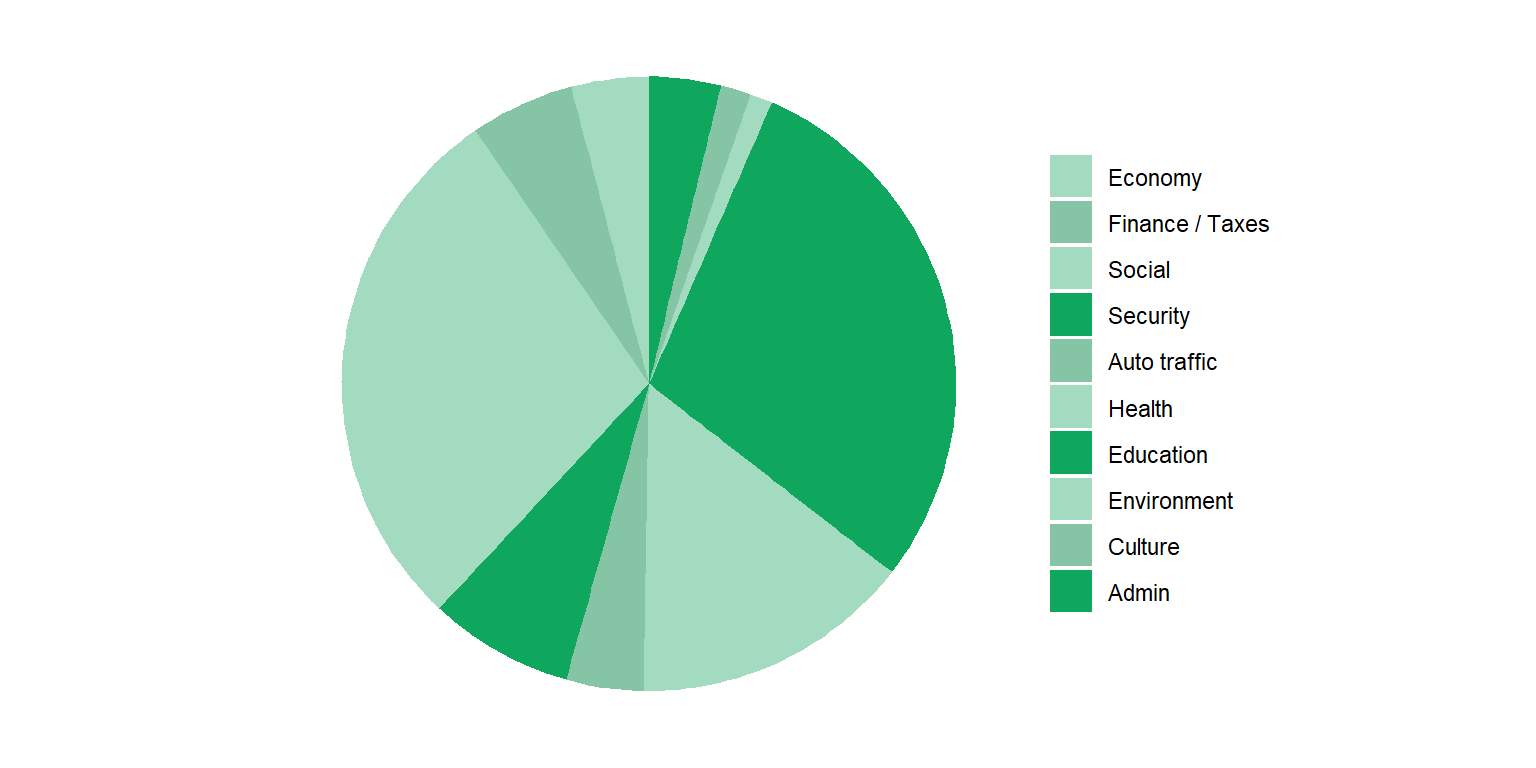
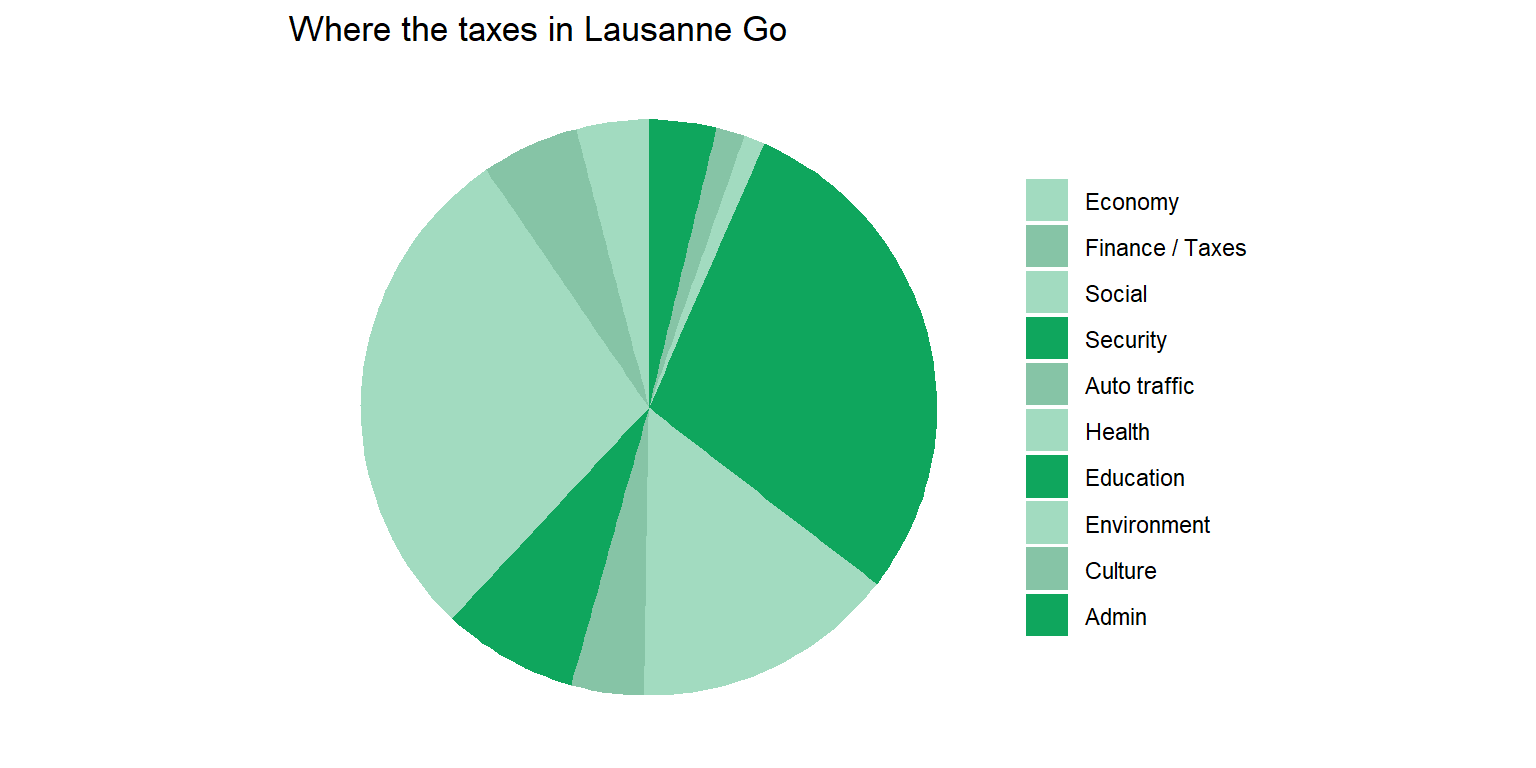
added bar and waffle chart. Fixes #30

diff --git a/Report_4/README.html b/Report_4/README.html
@@ -123,54 +123,57 @@ pre > code.sourceCode > span > a:first-child::before { text-decoration: underlin
 <span id="cb1-2"><a href="#cb1-2" aria-hidden="true" tabindex="-1"></a><span class="fu">library</span>(ggplot2)</span>
 <span id="cb1-3"><a href="#cb1-3" aria-hidden="true" tabindex="-1"></a><span class="fu">library</span>(dplyr)</span>
 <span id="cb1-4"><a href="#cb1-4" aria-hidden="true" tabindex="-1"></a><span class="fu">library</span>(forcats)</span>
-<span id="cb1-5"><a href="#cb1-5" aria-hidden="true" tabindex="-1"></a></span>
-<span id="cb1-6"><a href="#cb1-6" aria-hidden="true" tabindex="-1"></a>df_pie <span class="ot">&lt;-</span> <span class="fu">tibble</span>(</span>
-<span id="cb1-7"><a href="#cb1-7" aria-hidden="true" tabindex="-1"></a>  <span class="at">category =</span> <span class="fu">c</span>(</span>
-<span id="cb1-8"><a href="#cb1-8" aria-hidden="true" tabindex="-1"></a>    <span class="st">"Admin"</span>,</span>
-<span id="cb1-9"><a href="#cb1-9" aria-hidden="true" tabindex="-1"></a>    <span class="st">"Culture"</span>,</span>
-<span id="cb1-10"><a href="#cb1-10" aria-hidden="true" tabindex="-1"></a>    <span class="st">"Environment"</span>,</span>
-<span id="cb1-11"><a href="#cb1-11" aria-hidden="true" tabindex="-1"></a>    <span class="st">"Education"</span>,</span>
-<span id="cb1-12"><a href="#cb1-12" aria-hidden="true" tabindex="-1"></a>    <span class="st">"Health"</span>,</span>
-<span id="cb1-13"><a href="#cb1-13" aria-hidden="true" tabindex="-1"></a>    <span class="st">"Auto traffic"</span>,</span>
-<span id="cb1-14"><a href="#cb1-14" aria-hidden="true" tabindex="-1"></a>    <span class="st">"Security"</span>,</span>
-<span id="cb1-15"><a href="#cb1-15" aria-hidden="true" tabindex="-1"></a>    <span class="st">"Social"</span>,</span>
-<span id="cb1-16"><a href="#cb1-16" aria-hidden="true" tabindex="-1"></a>    <span class="st">"Finance / Taxes"</span>,</span>
-<span id="cb1-17"><a href="#cb1-17" aria-hidden="true" tabindex="-1"></a>    <span class="st">"Economy"</span>),</span>
-<span id="cb1-18"><a href="#cb1-18" aria-hidden="true" tabindex="-1"></a>  <span class="at">chf =</span> <span class="fu">c</span>(</span>
-<span id="cb1-19"><a href="#cb1-19" aria-hidden="true" tabindex="-1"></a>    <span class="fl">3.77</span>,</span>
-<span id="cb1-20"><a href="#cb1-20" aria-hidden="true" tabindex="-1"></a>    <span class="fl">1.60</span>,</span>
-<span id="cb1-21"><a href="#cb1-21" aria-hidden="true" tabindex="-1"></a>    <span class="fl">1.19</span>,</span>
-<span id="cb1-22"><a href="#cb1-22" aria-hidden="true" tabindex="-1"></a>    <span class="fl">28.92</span>,</span>
-<span id="cb1-23"><a href="#cb1-23" aria-hidden="true" tabindex="-1"></a>    <span class="fl">14.78</span>,</span>
-<span id="cb1-24"><a href="#cb1-24" aria-hidden="true" tabindex="-1"></a>    <span class="fl">4.09</span>,</span>
-<span id="cb1-25"><a href="#cb1-25" aria-hidden="true" tabindex="-1"></a>    <span class="fl">7.60</span>,</span>
-<span id="cb1-26"><a href="#cb1-26" aria-hidden="true" tabindex="-1"></a>    <span class="fl">28.50</span>,</span>
-<span id="cb1-27"><a href="#cb1-27" aria-hidden="true" tabindex="-1"></a>    <span class="fl">5.47</span>,</span>
-<span id="cb1-28"><a href="#cb1-28" aria-hidden="true" tabindex="-1"></a>    <span class="fl">4.08</span>),</span>
-<span id="cb1-29"><a href="#cb1-29" aria-hidden="true" tabindex="-1"></a><span class="at">fill =</span> <span class="fu">c</span>(</span>
-<span id="cb1-30"><a href="#cb1-30" aria-hidden="true" tabindex="-1"></a>    <span class="st">"#a2dbc0"</span>,</span>
-<span id="cb1-31"><a href="#cb1-31" aria-hidden="true" tabindex="-1"></a>    <span class="st">"#86c4a6"</span>,</span>
+<span id="cb1-5"><a href="#cb1-5" aria-hidden="true" tabindex="-1"></a><span class="fu">library</span>(waffle)</span>
+<span id="cb1-6"><a href="#cb1-6" aria-hidden="true" tabindex="-1"></a><span class="fu">library</span>(RColorBrewer)</span>
+<span id="cb1-7"><a href="#cb1-7" aria-hidden="true" tabindex="-1"></a></span>
+<span id="cb1-8"><a href="#cb1-8" aria-hidden="true" tabindex="-1"></a>df_pie <span class="ot">&lt;-</span> <span class="fu">tibble</span>(</span>
+<span id="cb1-9"><a href="#cb1-9" aria-hidden="true" tabindex="-1"></a>  <span class="at">category =</span> <span class="fu">c</span>(</span>
+<span id="cb1-10"><a href="#cb1-10" aria-hidden="true" tabindex="-1"></a>    <span class="st">"Admin"</span>,</span>
+<span id="cb1-11"><a href="#cb1-11" aria-hidden="true" tabindex="-1"></a>    <span class="st">"Culture"</span>,</span>
+<span id="cb1-12"><a href="#cb1-12" aria-hidden="true" tabindex="-1"></a>    <span class="st">"Environment"</span>,</span>
+<span id="cb1-13"><a href="#cb1-13" aria-hidden="true" tabindex="-1"></a>    <span class="st">"Education"</span>,</span>
+<span id="cb1-14"><a href="#cb1-14" aria-hidden="true" tabindex="-1"></a>    <span class="st">"Health"</span>,</span>
+<span id="cb1-15"><a href="#cb1-15" aria-hidden="true" tabindex="-1"></a>    <span class="st">"Auto traffic"</span>,</span>
+<span id="cb1-16"><a href="#cb1-16" aria-hidden="true" tabindex="-1"></a>    <span class="st">"Security"</span>,</span>
+<span id="cb1-17"><a href="#cb1-17" aria-hidden="true" tabindex="-1"></a>    <span class="st">"Social"</span>,</span>
+<span id="cb1-18"><a href="#cb1-18" aria-hidden="true" tabindex="-1"></a>    <span class="st">"Finance / Taxes"</span>,</span>
+<span id="cb1-19"><a href="#cb1-19" aria-hidden="true" tabindex="-1"></a>    <span class="st">"Economy"</span>),</span>
+<span id="cb1-20"><a href="#cb1-20" aria-hidden="true" tabindex="-1"></a>  <span class="at">chf =</span> <span class="fu">c</span>(</span>
+<span id="cb1-21"><a href="#cb1-21" aria-hidden="true" tabindex="-1"></a>    <span class="fl">3.77</span>,</span>
+<span id="cb1-22"><a href="#cb1-22" aria-hidden="true" tabindex="-1"></a>    <span class="fl">1.60</span>,</span>
+<span id="cb1-23"><a href="#cb1-23" aria-hidden="true" tabindex="-1"></a>    <span class="fl">1.19</span>,</span>
+<span id="cb1-24"><a href="#cb1-24" aria-hidden="true" tabindex="-1"></a>    <span class="fl">28.92</span>,</span>
+<span id="cb1-25"><a href="#cb1-25" aria-hidden="true" tabindex="-1"></a>    <span class="fl">14.78</span>,</span>
+<span id="cb1-26"><a href="#cb1-26" aria-hidden="true" tabindex="-1"></a>    <span class="fl">4.09</span>,</span>
+<span id="cb1-27"><a href="#cb1-27" aria-hidden="true" tabindex="-1"></a>    <span class="fl">7.60</span>,</span>
+<span id="cb1-28"><a href="#cb1-28" aria-hidden="true" tabindex="-1"></a>    <span class="fl">28.50</span>,</span>
+<span id="cb1-29"><a href="#cb1-29" aria-hidden="true" tabindex="-1"></a>    <span class="fl">5.47</span>,</span>
+<span id="cb1-30"><a href="#cb1-30" aria-hidden="true" tabindex="-1"></a>    <span class="fl">4.08</span>),</span>
+<span id="cb1-31"><a href="#cb1-31" aria-hidden="true" tabindex="-1"></a><span class="at">fill =</span> <span class="fu">c</span>(</span>
 <span id="cb1-32"><a href="#cb1-32" aria-hidden="true" tabindex="-1"></a>    <span class="st">"#a2dbc0"</span>,</span>
-<span id="cb1-33"><a href="#cb1-33" aria-hidden="true" tabindex="-1"></a>    <span class="st">"#0fa65d"</span>,</span>
-<span id="cb1-34"><a href="#cb1-34" aria-hidden="true" tabindex="-1"></a>    <span class="st">"#86c4a6"</span>,</span>
-<span id="cb1-35"><a href="#cb1-35" aria-hidden="true" tabindex="-1"></a>    <span class="st">"#a2dbc0"</span>,</span>
-<span id="cb1-36"><a href="#cb1-36" aria-hidden="true" tabindex="-1"></a>    <span class="st">"#0fa65d"</span>,</span>
+<span id="cb1-33"><a href="#cb1-33" aria-hidden="true" tabindex="-1"></a>    <span class="st">"#86c4a6"</span>,</span>
+<span id="cb1-34"><a href="#cb1-34" aria-hidden="true" tabindex="-1"></a>    <span class="st">"#a2dbc0"</span>,</span>
+<span id="cb1-35"><a href="#cb1-35" aria-hidden="true" tabindex="-1"></a>    <span class="st">"#0fa65d"</span>,</span>
+<span id="cb1-36"><a href="#cb1-36" aria-hidden="true" tabindex="-1"></a>    <span class="st">"#86c4a6"</span>,</span>
 <span id="cb1-37"><a href="#cb1-37" aria-hidden="true" tabindex="-1"></a>    <span class="st">"#a2dbc0"</span>,</span>
-<span id="cb1-38"><a href="#cb1-38" aria-hidden="true" tabindex="-1"></a>    <span class="st">"#86c4a6"</span>,</span>
-<span id="cb1-39"><a href="#cb1-39" aria-hidden="true" tabindex="-1"></a>    <span class="st">"#0fa65d"</span>)</span>
-<span id="cb1-40"><a href="#cb1-40" aria-hidden="true" tabindex="-1"></a>  ) <span class="sc">%&gt;%</span> <span class="fu">mutate</span>(</span>
-<span id="cb1-41"><a href="#cb1-41" aria-hidden="true" tabindex="-1"></a>    <span class="at">category =</span> category <span class="sc">%&gt;%</span> <span class="fu">fct_inorder</span>() <span class="sc">%&gt;%</span> <span class="fu">fct_rev</span>()</span>
-<span id="cb1-42"><a href="#cb1-42" aria-hidden="true" tabindex="-1"></a>  )</span>
-<span id="cb1-43"><a href="#cb1-43" aria-hidden="true" tabindex="-1"></a></span>
-<span id="cb1-44"><a href="#cb1-44" aria-hidden="true" tabindex="-1"></a>pie_chart <span class="ot">&lt;-</span> df_pie <span class="sc">%&gt;%</span> </span>
-<span id="cb1-45"><a href="#cb1-45" aria-hidden="true" tabindex="-1"></a>  <span class="fu">ggplot</span>(<span class="fu">aes</span>(<span class="at">x =</span> <span class="st">""</span>, <span class="at">y =</span> chf, <span class="at">fill =</span> category)) <span class="sc">+</span></span>
-<span id="cb1-46"><a href="#cb1-46" aria-hidden="true" tabindex="-1"></a>    <span class="fu">geom_bar</span>(<span class="at">stat =</span> <span class="st">"identity"</span>, <span class="at">width =</span> <span class="dv">1</span>) <span class="sc">+</span></span>
-<span id="cb1-47"><a href="#cb1-47" aria-hidden="true" tabindex="-1"></a>    <span class="fu">coord_polar</span>(<span class="st">"y"</span>, <span class="at">start =</span> <span class="dv">0</span>) <span class="sc">+</span></span>
-<span id="cb1-48"><a href="#cb1-48" aria-hidden="true" tabindex="-1"></a>    <span class="fu">theme_void</span>() <span class="sc">+</span></span>
-<span id="cb1-49"><a href="#cb1-49" aria-hidden="true" tabindex="-1"></a>    <span class="fu">scale_fill_manual</span>(<span class="at">values =</span> df_pie<span class="sc">$</span>fill) <span class="sc">+</span></span>
-<span id="cb1-50"><a href="#cb1-50" aria-hidden="true" tabindex="-1"></a>    <span class="fu">theme</span>(<span class="at">legend.title =</span> <span class="fu">element_blank</span>()) </span>
-<span id="cb1-51"><a href="#cb1-51" aria-hidden="true" tabindex="-1"></a>  </span>
-<span id="cb1-52"><a href="#cb1-52" aria-hidden="true" tabindex="-1"></a>pie_chart</span></code><button title="Copy to Clipboard" class="code-copy-button"><i class="bi"></i></button></pre></div>
+<span id="cb1-38"><a href="#cb1-38" aria-hidden="true" tabindex="-1"></a>    <span class="st">"#0fa65d"</span>,</span>
+<span id="cb1-39"><a href="#cb1-39" aria-hidden="true" tabindex="-1"></a>    <span class="st">"#a2dbc0"</span>,</span>
+<span id="cb1-40"><a href="#cb1-40" aria-hidden="true" tabindex="-1"></a>    <span class="st">"#86c4a6"</span>,</span>
+<span id="cb1-41"><a href="#cb1-41" aria-hidden="true" tabindex="-1"></a>    <span class="st">"#0fa65d"</span>)</span>
+<span id="cb1-42"><a href="#cb1-42" aria-hidden="true" tabindex="-1"></a>  ) <span class="sc">%&gt;%</span> <span class="fu">mutate</span>(</span>
+<span id="cb1-43"><a href="#cb1-43" aria-hidden="true" tabindex="-1"></a>    <span class="at">category =</span> category <span class="sc">%&gt;%</span> <span class="fu">fct_inorder</span>() <span class="sc">%&gt;%</span> <span class="fu">fct_rev</span>()</span>
+<span id="cb1-44"><a href="#cb1-44" aria-hidden="true" tabindex="-1"></a>  )</span>
+<span id="cb1-45"><a href="#cb1-45" aria-hidden="true" tabindex="-1"></a></span>
+<span id="cb1-46"><a href="#cb1-46" aria-hidden="true" tabindex="-1"></a>pie_chart <span class="ot">&lt;-</span> df_pie <span class="sc">%&gt;%</span> </span>
+<span id="cb1-47"><a href="#cb1-47" aria-hidden="true" tabindex="-1"></a>  <span class="fu">ggplot</span>(<span class="fu">aes</span>(<span class="at">x =</span> <span class="st">""</span>, <span class="at">y =</span> chf, <span class="at">fill =</span> category)) <span class="sc">+</span></span>
+<span id="cb1-48"><a href="#cb1-48" aria-hidden="true" tabindex="-1"></a>    <span class="fu">geom_bar</span>(<span class="at">stat =</span> <span class="st">"identity"</span>, <span class="at">width =</span> <span class="dv">1</span>) <span class="sc">+</span></span>
+<span id="cb1-49"><a href="#cb1-49" aria-hidden="true" tabindex="-1"></a>    <span class="fu">coord_polar</span>(<span class="st">"y"</span>, <span class="at">start =</span> <span class="dv">0</span>) <span class="sc">+</span></span>
+<span id="cb1-50"><a href="#cb1-50" aria-hidden="true" tabindex="-1"></a>    <span class="fu">theme_void</span>() <span class="sc">+</span></span>
+<span id="cb1-51"><a href="#cb1-51" aria-hidden="true" tabindex="-1"></a>    <span class="fu">scale_fill_manual</span>(<span class="at">values =</span> df_pie<span class="sc">$</span>fill) <span class="sc">+</span></span>
+<span id="cb1-52"><a href="#cb1-52" aria-hidden="true" tabindex="-1"></a>    <span class="fu">theme</span>(<span class="at">legend.title =</span> <span class="fu">element_blank</span>()) <span class="sc">+</span></span>
+<span id="cb1-53"><a href="#cb1-53" aria-hidden="true" tabindex="-1"></a>    <span class="fu">labs</span>(<span class="at">title =</span> <span class="st">"Where the taxes in Lausanne Go"</span>)</span>
+<span id="cb1-54"><a href="#cb1-54" aria-hidden="true" tabindex="-1"></a>  </span>
+<span id="cb1-55"><a href="#cb1-55" aria-hidden="true" tabindex="-1"></a>pie_chart</span></code><button title="Copy to Clipboard" class="code-copy-button"><i class="bi"></i></button></pre></div>
 <div class="cell-output-display">
 <div>
 <figure class="figure">
@@ -189,23 +192,75 @@ pre > code.sourceCode > span > a:first-child::before { text-decoration: underlin
 <span id="cb2-3"><a href="#cb2-3" aria-hidden="true" tabindex="-1"></a>  <span class="fu">mutate</span>(</span>
 <span id="cb2-4"><a href="#cb2-4" aria-hidden="true" tabindex="-1"></a>    <span class="at">color =</span> <span class="fu">ifelse</span>(category <span class="sc">%in%</span> <span class="fu">c</span>(<span class="st">"Health"</span>, <span class="st">"Social"</span>, <span class="st">"Education"</span>),<span class="st">"black"</span>, <span class="cn">NA</span>),</span>
 <span id="cb2-5"><a href="#cb2-5" aria-hidden="true" tabindex="-1"></a>    <span class="at">category =</span> <span class="fu">fct_inorder</span>(category)</span>
-<span id="cb2-6"><a href="#cb2-6" aria-hidden="true" tabindex="-1"></a>  )</span>
-<span id="cb2-7"><a href="#cb2-7" aria-hidden="true" tabindex="-1"></a></span>
-<span id="cb2-8"><a href="#cb2-8" aria-hidden="true" tabindex="-1"></a>pie_chart <span class="ot">&lt;-</span> df_pie_reordered <span class="sc">%&gt;%</span> </span>
-<span id="cb2-9"><a href="#cb2-9" aria-hidden="true" tabindex="-1"></a>  <span class="fu">ggplot</span>(<span class="fu">aes</span>(<span class="at">x =</span> <span class="st">""</span>, <span class="at">y =</span> chf, <span class="at">fill =</span> category)) <span class="sc">+</span></span>
-<span id="cb2-10"><a href="#cb2-10" aria-hidden="true" tabindex="-1"></a>    <span class="fu">geom_bar</span>(<span class="fu">aes</span>(<span class="at">color =</span> color), <span class="at">linewidth =</span> <span class="fl">1.2</span>, <span class="at">stat =</span> <span class="st">"identity"</span>, <span class="at">width =</span> <span class="dv">1</span> ) <span class="sc">+</span></span>
-<span id="cb2-11"><a href="#cb2-11" aria-hidden="true" tabindex="-1"></a>    <span class="fu">coord_polar</span>(<span class="st">"y"</span>, <span class="at">start =</span> <span class="dv">0</span>) <span class="sc">+</span></span>
-<span id="cb2-12"><a href="#cb2-12" aria-hidden="true" tabindex="-1"></a>    <span class="fu">theme_void</span>() <span class="sc">+</span></span>
-<span id="cb2-13"><a href="#cb2-13" aria-hidden="true" tabindex="-1"></a>    <span class="fu">scale_fill_brewer</span>(<span class="at">palette =</span> <span class="st">"RdYlGn"</span>, <span class="at">direction =</span> <span class="dv">1</span>) <span class="sc">+</span></span>
-<span id="cb2-14"><a href="#cb2-14" aria-hidden="true" tabindex="-1"></a>    <span class="fu">scale_color_identity</span>() <span class="sc">+</span></span>
-<span id="cb2-15"><a href="#cb2-15" aria-hidden="true" tabindex="-1"></a>    <span class="co"># scale_fill_manual(values = df_pie$fill) +</span></span>
-<span id="cb2-16"><a href="#cb2-16" aria-hidden="true" tabindex="-1"></a>    <span class="fu">theme</span>(<span class="at">legend.title =</span> <span class="fu">element_blank</span>())</span>
-<span id="cb2-17"><a href="#cb2-17" aria-hidden="true" tabindex="-1"></a></span>
-<span id="cb2-18"><a href="#cb2-18" aria-hidden="true" tabindex="-1"></a>pie_chart</span></code><button title="Copy to Clipboard" class="code-copy-button"><i class="bi"></i></button></pre></div>
+<span id="cb2-6"><a href="#cb2-6" aria-hidden="true" tabindex="-1"></a>  ) <span class="sc">%&gt;%</span> </span>
+<span id="cb2-7"><a href="#cb2-7" aria-hidden="true" tabindex="-1"></a>  <span class="fu">arrange</span>(chf)</span>
+<span id="cb2-8"><a href="#cb2-8" aria-hidden="true" tabindex="-1"></a></span>
+<span id="cb2-9"><a href="#cb2-9" aria-hidden="true" tabindex="-1"></a>pie_chart <span class="ot">&lt;-</span> df_pie_reordered <span class="sc">%&gt;%</span> </span>
+<span id="cb2-10"><a href="#cb2-10" aria-hidden="true" tabindex="-1"></a>  <span class="fu">ggplot</span>(<span class="fu">aes</span>(<span class="at">x =</span> <span class="st">""</span>, <span class="at">y =</span> chf, <span class="at">fill =</span> category)) <span class="sc">+</span></span>
+<span id="cb2-11"><a href="#cb2-11" aria-hidden="true" tabindex="-1"></a>    <span class="fu">geom_bar</span>(<span class="fu">aes</span>(<span class="at">color =</span> color), <span class="at">linewidth =</span> <span class="fl">1.2</span>, <span class="at">stat =</span> <span class="st">"identity"</span>, <span class="at">width =</span> <span class="dv">1</span> ) <span class="sc">+</span></span>
+<span id="cb2-12"><a href="#cb2-12" aria-hidden="true" tabindex="-1"></a>    <span class="fu">coord_polar</span>(<span class="st">"y"</span>, <span class="at">start =</span> <span class="dv">0</span>) <span class="sc">+</span></span>
+<span id="cb2-13"><a href="#cb2-13" aria-hidden="true" tabindex="-1"></a>    <span class="fu">theme_void</span>() <span class="sc">+</span></span>
+<span id="cb2-14"><a href="#cb2-14" aria-hidden="true" tabindex="-1"></a>    <span class="fu">scale_fill_brewer</span>(<span class="at">palette =</span> <span class="st">"RdYlGn"</span>, <span class="at">direction =</span> <span class="dv">1</span>) <span class="sc">+</span></span>
+<span id="cb2-15"><a href="#cb2-15" aria-hidden="true" tabindex="-1"></a>    <span class="fu">scale_color_identity</span>() <span class="sc">+</span></span>
+<span id="cb2-16"><a href="#cb2-16" aria-hidden="true" tabindex="-1"></a>    <span class="co"># scale_fill_manual(values = df_pie$fill) +</span></span>
+<span id="cb2-17"><a href="#cb2-17" aria-hidden="true" tabindex="-1"></a>    <span class="fu">theme</span>(<span class="at">legend.title =</span> <span class="fu">element_blank</span>()) <span class="sc">+</span></span>
+<span id="cb2-18"><a href="#cb2-18" aria-hidden="true" tabindex="-1"></a>    <span class="fu">labs</span>(<span class="at">title =</span> <span class="st">"Where the taxes in Lausanne Go"</span>)</span>
+<span id="cb2-19"><a href="#cb2-19" aria-hidden="true" tabindex="-1"></a></span>
+<span id="cb2-20"><a href="#cb2-20" aria-hidden="true" tabindex="-1"></a>pie_chart</span></code><button title="Copy to Clipboard" class="code-copy-button"><i class="bi"></i></button></pre></div>
 <div class="cell-output-display">
 <div>
 <figure class="figure">
 <p><img src="README_files/figure-html/unnamed-chunk-2-1.png" class="img-fluid figure-img" width="768"></p>
+</figure>
+</div>
+</div>
+</div>
+</section>
+<section id="task-3-proposing-two-alternatives" class="level2">
+<h2 class="anchored" data-anchor-id="task-3-proposing-two-alternatives">Task 3: Proposing two alternatives</h2>
+<p>Since piecharts are not very easily readable, It can make more sense to plot them as simple barplot:</p>
+<div class="cell">
+<div class="sourceCode cell-code" id="cb3"><pre class="sourceCode r code-with-copy"><code class="sourceCode r"><span id="cb3-1"><a href="#cb3-1" aria-hidden="true" tabindex="-1"></a>bar_chart <span class="ot">&lt;-</span> df_pie_reordered <span class="sc">%&gt;%</span> </span>
+<span id="cb3-2"><a href="#cb3-2" aria-hidden="true" tabindex="-1"></a>  <span class="fu">ggplot</span>(<span class="fu">aes</span>(<span class="at">y =</span> category <span class="sc">%&gt;%</span> <span class="fu">fct_rev</span>(), <span class="at">x =</span> chf, <span class="at">fill =</span> category)) <span class="sc">+</span></span>
+<span id="cb3-3"><a href="#cb3-3" aria-hidden="true" tabindex="-1"></a>    <span class="fu">geom_bar</span>(<span class="fu">aes</span>(<span class="at">color =</span> color), <span class="at">linewidth =</span> <span class="fl">1.2</span>, <span class="at">stat =</span> <span class="st">"identity"</span>, <span class="at">width =</span> <span class="dv">1</span> ) <span class="sc">+</span></span>
+<span id="cb3-4"><a href="#cb3-4" aria-hidden="true" tabindex="-1"></a>    <span class="fu">theme_classic</span>() <span class="sc">+</span></span>
+<span id="cb3-5"><a href="#cb3-5" aria-hidden="true" tabindex="-1"></a>    <span class="fu">scale_fill_brewer</span>(<span class="at">palette =</span> <span class="st">"RdYlGn"</span>, <span class="at">direction =</span> <span class="dv">1</span>) <span class="sc">+</span></span>
+<span id="cb3-6"><a href="#cb3-6" aria-hidden="true" tabindex="-1"></a>    <span class="fu">scale_color_identity</span>() <span class="sc">+</span></span>
+<span id="cb3-7"><a href="#cb3-7" aria-hidden="true" tabindex="-1"></a>    <span class="fu">theme</span>(</span>
+<span id="cb3-8"><a href="#cb3-8" aria-hidden="true" tabindex="-1"></a>      <span class="at">legend.title =</span> <span class="fu">element_blank</span>(),</span>
+<span id="cb3-9"><a href="#cb3-9" aria-hidden="true" tabindex="-1"></a>      <span class="at">legend.position =</span> <span class="st">"none"</span></span>
+<span id="cb3-10"><a href="#cb3-10" aria-hidden="true" tabindex="-1"></a>    ) <span class="sc">+</span></span>
+<span id="cb3-11"><a href="#cb3-11" aria-hidden="true" tabindex="-1"></a>    <span class="fu">labs</span>(</span>
+<span id="cb3-12"><a href="#cb3-12" aria-hidden="true" tabindex="-1"></a>      <span class="at">x =</span> <span class="st">"CHF"</span>,</span>
+<span id="cb3-13"><a href="#cb3-13" aria-hidden="true" tabindex="-1"></a>      <span class="at">y =</span> <span class="st">""</span>) <span class="sc">+</span></span>
+<span id="cb3-14"><a href="#cb3-14" aria-hidden="true" tabindex="-1"></a>    <span class="fu">labs</span>(<span class="at">title =</span> <span class="st">"Where the taxes in Lausanne Go"</span>)</span>
+<span id="cb3-15"><a href="#cb3-15" aria-hidden="true" tabindex="-1"></a></span>
+<span id="cb3-16"><a href="#cb3-16" aria-hidden="true" tabindex="-1"></a>bar_chart</span></code><button title="Copy to Clipboard" class="code-copy-button"><i class="bi"></i></button></pre></div>
+<div class="cell-output-display">
+<div>
+<figure class="figure">
+<p><img src="README_files/figure-html/unnamed-chunk-3-1.png" class="img-fluid figure-img" width="768"></p>
+</figure>
+</div>
+</div>
+</div>
+<p>Another cool way to plot relative amounts is to use are in a waffle chart:</p>
+<div class="cell">
+<div class="sourceCode cell-code" id="cb4"><pre class="sourceCode r code-with-copy"><code class="sourceCode r"><span id="cb4-1"><a href="#cb4-1" aria-hidden="true" tabindex="-1"></a>waffle_cahrt <span class="ot">&lt;-</span> df_pie_reordered <span class="sc">%&gt;%</span> </span>
+<span id="cb4-2"><a href="#cb4-2" aria-hidden="true" tabindex="-1"></a>  <span class="fu">ggplot</span>(<span class="fu">aes</span>(<span class="at">fill =</span> category, <span class="at">values =</span> chf <span class="sc">%&gt;%</span>  <span class="fu">round</span>(<span class="dv">0</span>))) <span class="sc">+</span></span>
+<span id="cb4-3"><a href="#cb4-3" aria-hidden="true" tabindex="-1"></a>    <span class="fu">geom_waffle</span>(<span class="at">n_rows =</span> <span class="dv">10</span>) <span class="sc">+</span></span>
+<span id="cb4-4"><a href="#cb4-4" aria-hidden="true" tabindex="-1"></a>    <span class="fu">theme_void</span>() <span class="sc">+</span></span>
+<span id="cb4-5"><a href="#cb4-5" aria-hidden="true" tabindex="-1"></a>    <span class="fu">coord_flip</span>() <span class="sc">+</span></span>
+<span id="cb4-6"><a href="#cb4-6" aria-hidden="true" tabindex="-1"></a>    <span class="fu">scale_fill_brewer</span>(<span class="at">palette =</span> <span class="st">"RdYlGn"</span>, <span class="at">direction =</span> <span class="dv">1</span>) <span class="sc">+</span></span>
+<span id="cb4-7"><a href="#cb4-7" aria-hidden="true" tabindex="-1"></a>    <span class="fu">scale_color_identity</span>() <span class="sc">+</span></span>
+<span id="cb4-8"><a href="#cb4-8" aria-hidden="true" tabindex="-1"></a>    <span class="fu">labs</span>(<span class="at">title =</span> <span class="st">"Where the taxes in Lausanne Go"</span>) <span class="sc">+</span></span>
+<span id="cb4-9"><a href="#cb4-9" aria-hidden="true" tabindex="-1"></a>    <span class="fu">theme</span>(<span class="at">legend.title =</span> <span class="fu">element_blank</span>())</span>
+<span id="cb4-10"><a href="#cb4-10" aria-hidden="true" tabindex="-1"></a></span>
+<span id="cb4-11"><a href="#cb4-11" aria-hidden="true" tabindex="-1"></a>waffle_cahrt</span></code><button title="Copy to Clipboard" class="code-copy-button"><i class="bi"></i></button></pre></div>
+<div class="cell-output-display">
+<div>
+<figure class="figure">
+<p><img src="README_files/figure-html/unnamed-chunk-4-1.png" class="img-fluid figure-img" width="768"></p>
 </figure>
 </div>
 </div>
